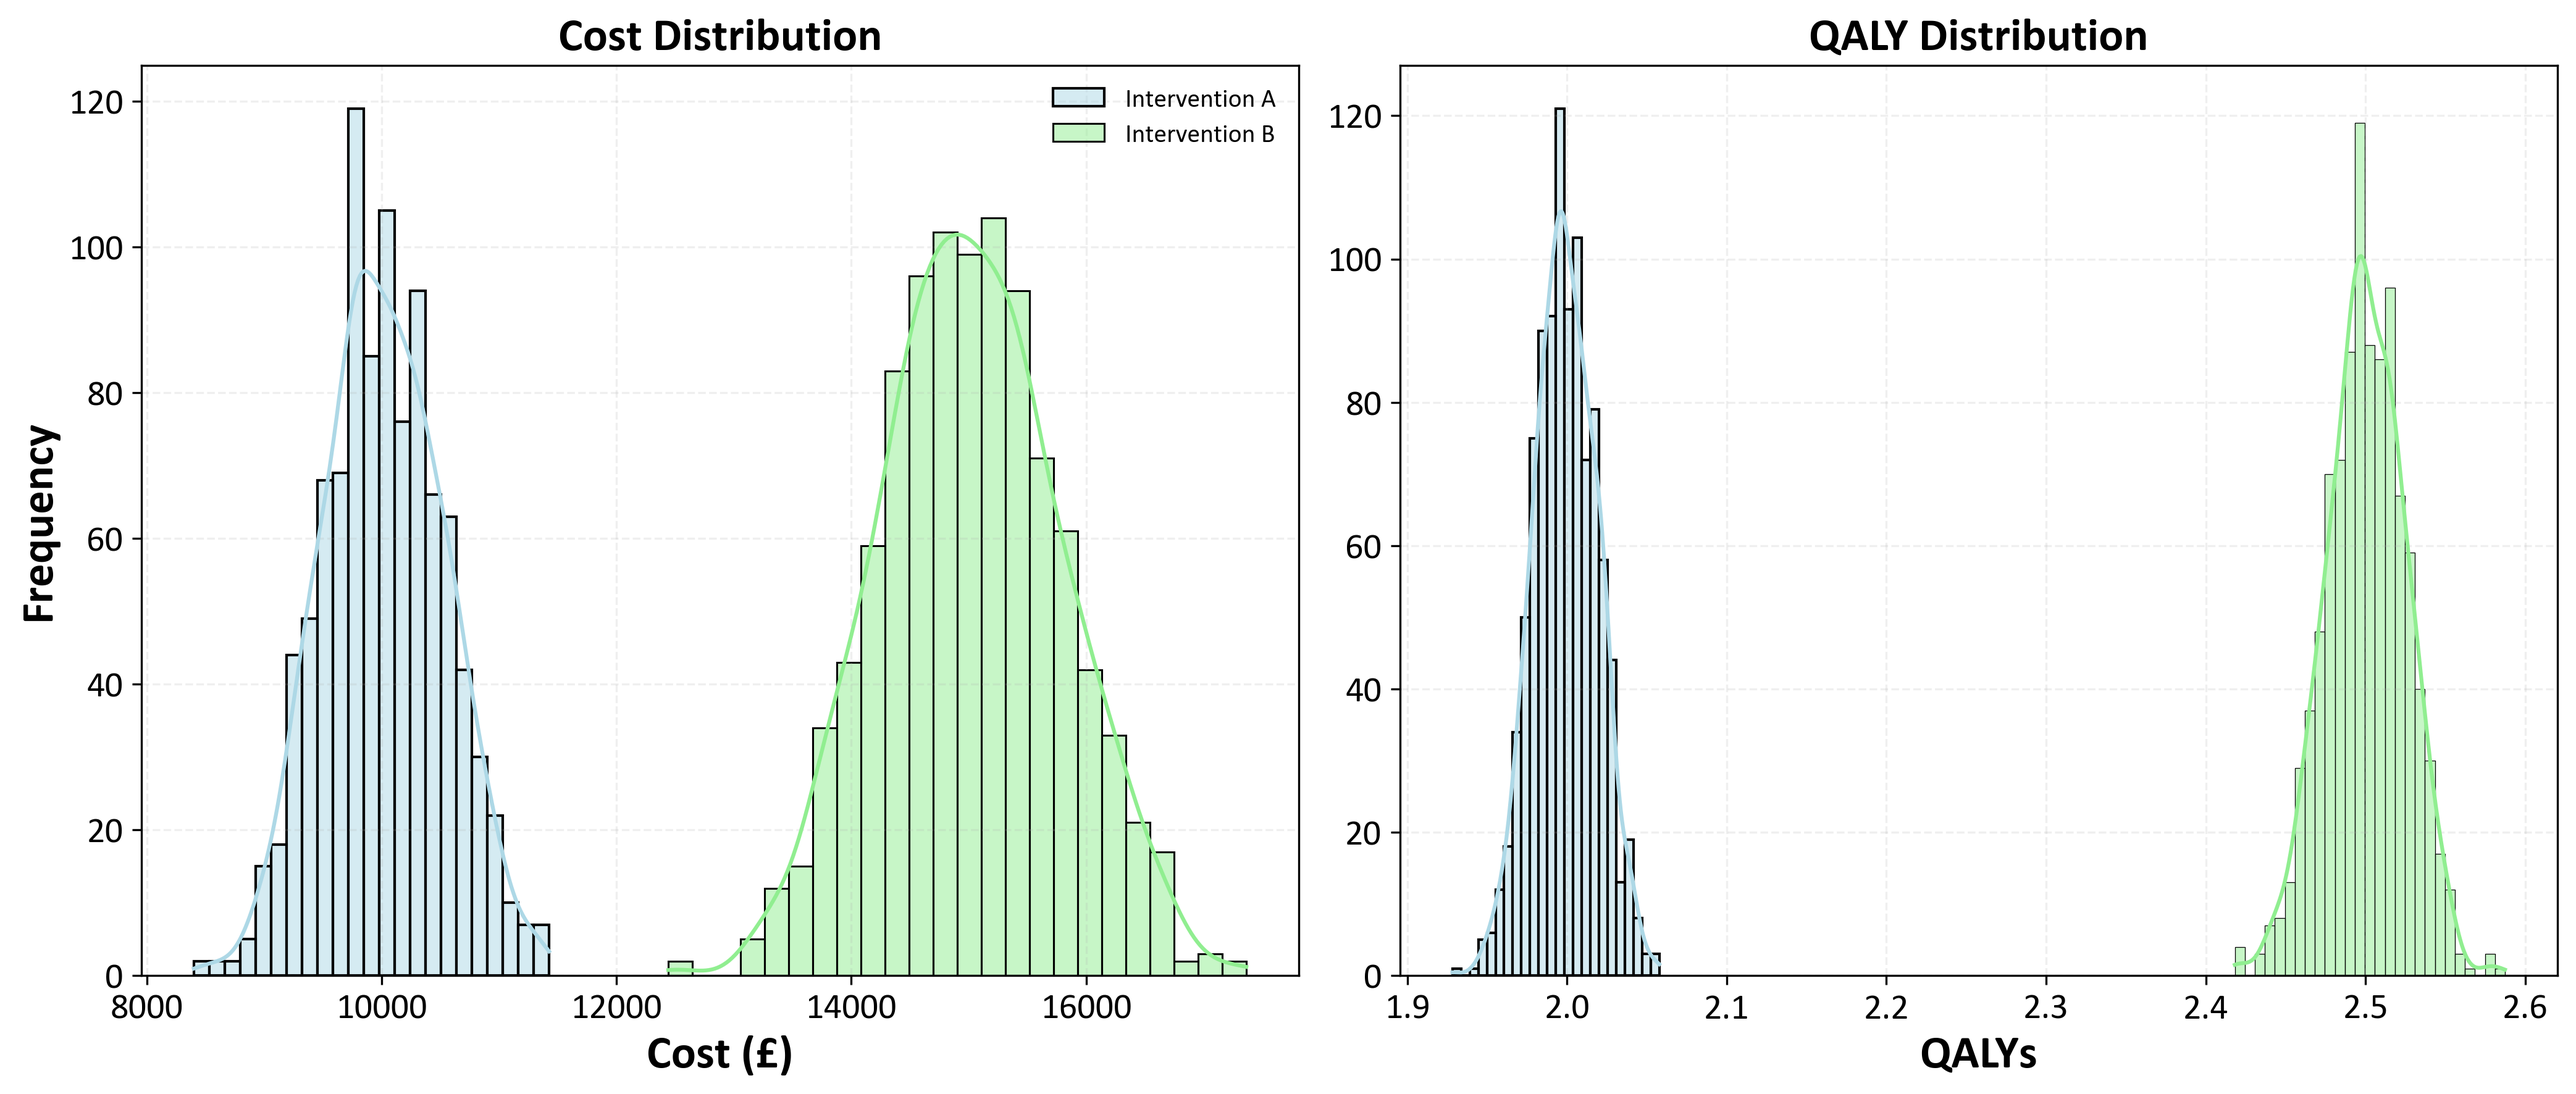
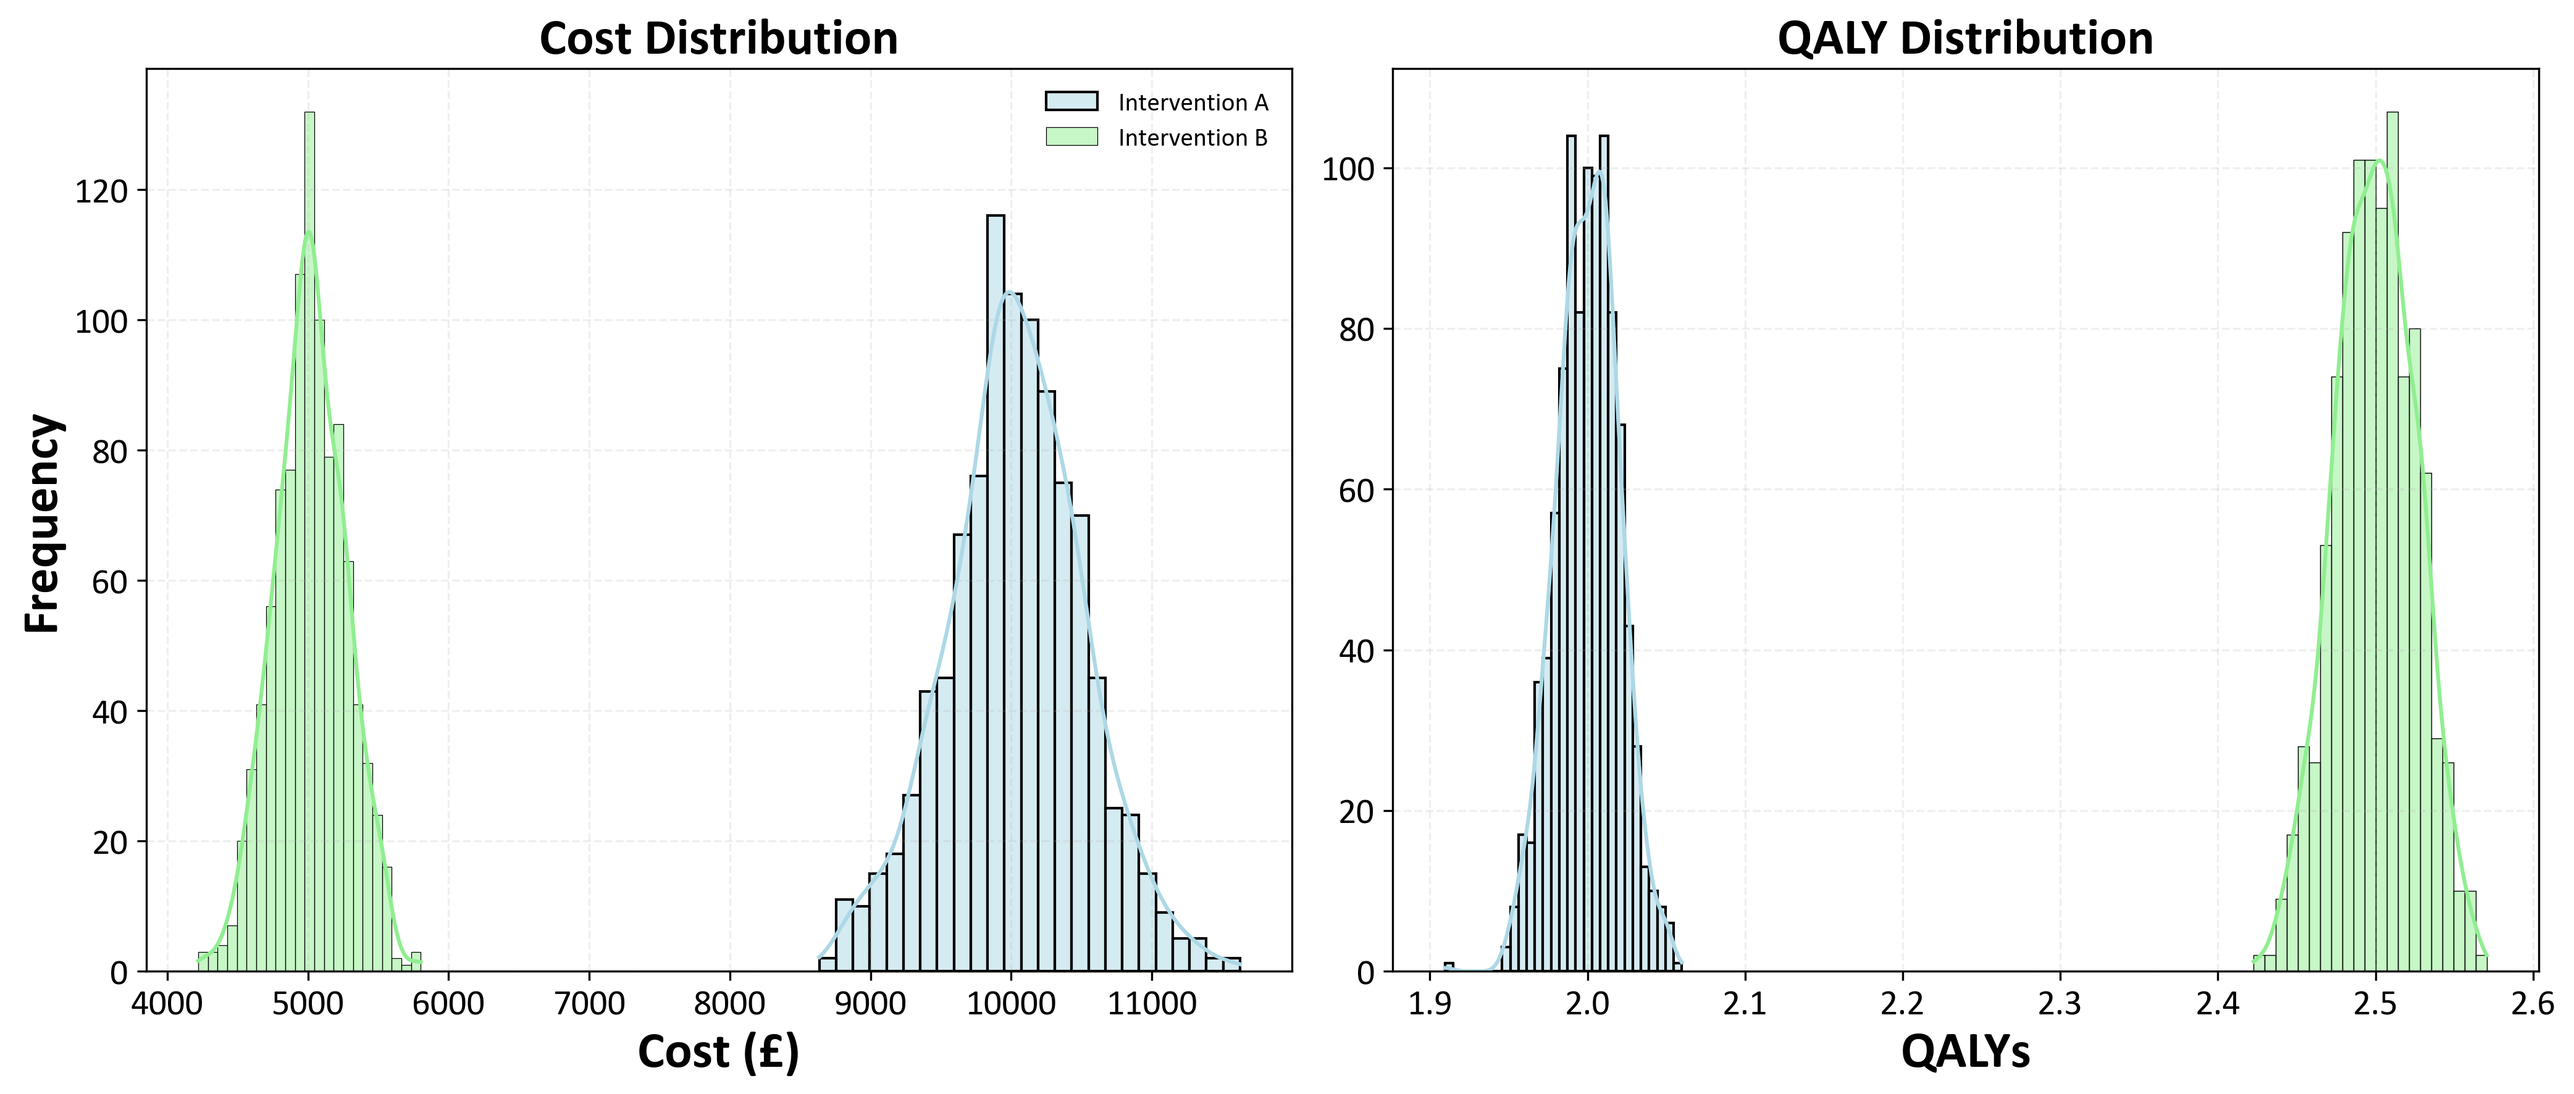
added icer text to plot

diff --git a/cost_effectiveness_analysis_PSA.py b/cost_effectiveness_analysis_PSA.py
@@ -58,20 +58,21 @@ qaly_intervention_B_dist = np.random.normal(qaly_intervention_B, qaly_interventi
 fig, axes = plt.subplots(1, 2, figsize=(14, 6))
 plt.rcParams['font.family'] = 'Calibri'
 # Plot costs
+fs=20
 sns.histplot(cost_intervention_A_dist, kde=True, color="#ADD8E6", label="Intervention A", ax=axes[0],alpha=0.5)
 sns.histplot(cost_intervention_B_dist, kde=True, color="#90EE90", label="Intervention B", ax=axes[0],alpha=0.5)
-axes[0].set_title('Cost Distribution', fontsize=18, fontweight='bold')
-axes[0].set_xlabel('Cost (£)', fontsize=18, fontweight='bold')
-axes[0].set_ylabel('Frequency', fontsize=18, fontweight='bold')
+axes[0].set_title('Cost Distribution', fontsize=fs, fontweight='bold')
+axes[0].set_xlabel('Cost (£)', fontsize=fs, fontweight='bold')
+axes[0].set_ylabel('Frequency', fontsize=fs, fontweight='bold')
 axes[0].tick_params(axis='both', which='major', labelsize=14)
 axes[0].legend(frameon=False, framealpha=0.1)
 axes[0].grid(True, linestyle='--', alpha=0.2)
 # Plot QALYs
 sns.histplot(qaly_intervention_A_dist, kde=True, color="#ADD8E6", label="Intervention A", ax=axes[1],alpha=0.5)
 sns.histplot(qaly_intervention_B_dist, kde=True, color="#90EE90", label="Intervention B", ax=axes[1],alpha=0.5)
-axes[1].set_title('QALY Distribution', fontsize=18, fontweight='bold')
-axes[1].set_xlabel('QALYs', fontsize=18, fontweight='bold')
-axes[1].set_ylabel('', fontsize=18, fontweight='bold')
+axes[1].set_title('QALY Distribution', fontsize=fs, fontweight='bold')
+axes[1].set_xlabel('QALYs', fontsize=fs, fontweight='bold')
+axes[1].set_ylabel('', fontsize=fs, fontweight='bold')
 axes[1].tick_params(axis='both', which='major', labelsize=14)
 axes[1].grid(True, linestyle='--', alpha=0.2)
 plt.tight_layout()
@@ -154,6 +155,11 @@ print(PSA_results.describe())
 delta_cost = PSA_results['Discounted Cost B'] - PSA_results['Discounted Cost A']
 delta_qaly = PSA_results['QALY B'] - PSA_results['QALY A']
 
+# Calculate the mean ICER across all simulations. Can be volatile due to the influence of extreme values, especially when QALY differences are small.
+mean_icer = PSA_results['ICER'].mean()
+# Stable mean ICER provides a more stable and central estimate.
+mean_icer_stable = delta_cost.mean() / delta_qaly.mean()
+
 plt.figure(figsize=(7, 6))
 plt.rcParams['font.family'] = 'Calibri'
 plt.scatter(delta_qaly, delta_cost, color='#3498db', label='PSA results', zorder=5, s=50, alpha=0.7, edgecolors='k')
@@ -171,9 +177,9 @@ plt.xlim(-abs(max(delta_qaly)) * 1.2, abs(max(delta_qaly)) * 1.2)
 plt.ylim(-30000, 30000)
 plt.xticks(fontsize=14)
 plt.yticks(fontsize=14)
-plt.xlabel(r'$\Delta$ QALYs', fontsize=18, fontweight='bold')
-plt.ylabel(r'$\Delta$ Cost (£)', fontsize=18, fontweight='bold')
-plt.title('Cost-Effectiveness Plane', fontsize=18, fontweight='bold')
+plt.xlabel(r'$\Delta$ QALYs', fontsize=fs, fontweight='bold')
+plt.ylabel(r'$\Delta$ Cost (£)', fontsize=fs, fontweight='bold')
+plt.title(f'Cost-Effectiveness Plane (Mean ICER: £{mean_icer_stable:,.0f}/QALY)', fontsize=fs-3, fontweight='bold')
 plt.legend(loc='upper left', fontsize=12, frameon=False, framealpha=0.1)
 plt.grid(True, linestyle='--', alpha=0.2)
 # Save the figure
@@ -183,11 +189,6 @@ plt.show()
 #################################################################################################################################################################
 # Summarise the results in a DataFrame
 #################################################################################################################################################################
-# Here we calculate the mean ICER across all simulations. Can be volatile due to the influence of extreme values, especially when QALY differences are small.
-mean_icer = PSA_results['ICER'].mean()
-# Stable mean ICER provides a more stable and central estimate.
-mean_icer_stable = delta_cost.mean() / delta_qaly.mean()
-
 df_summary = pd.DataFrame({
     'Mean Discounted Cost': [PSA_results['Discounted Cost A'].mean(), PSA_results['Discounted Cost B'].mean()],
     'Mean QALYs': [PSA_results['QALY A'].mean(), PSA_results['QALY B'].mean()],
